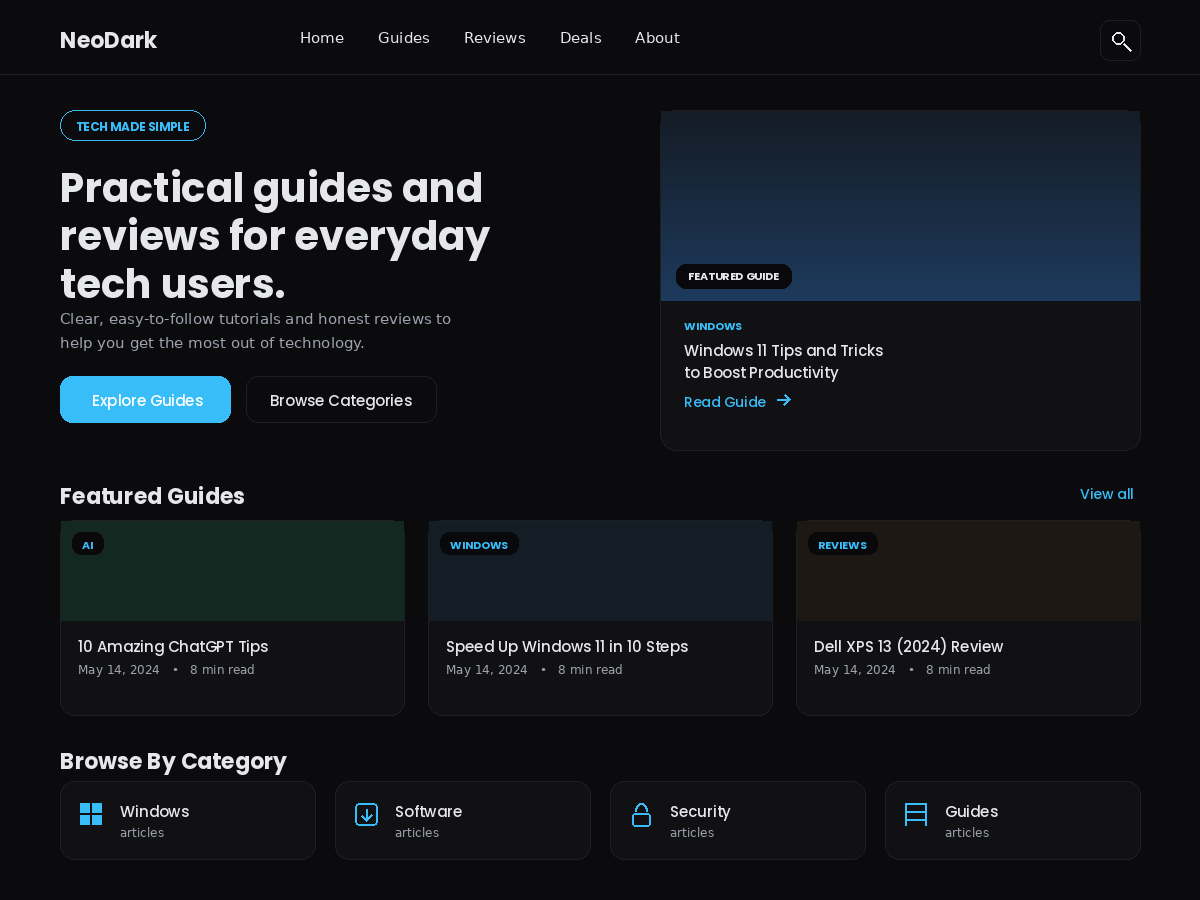
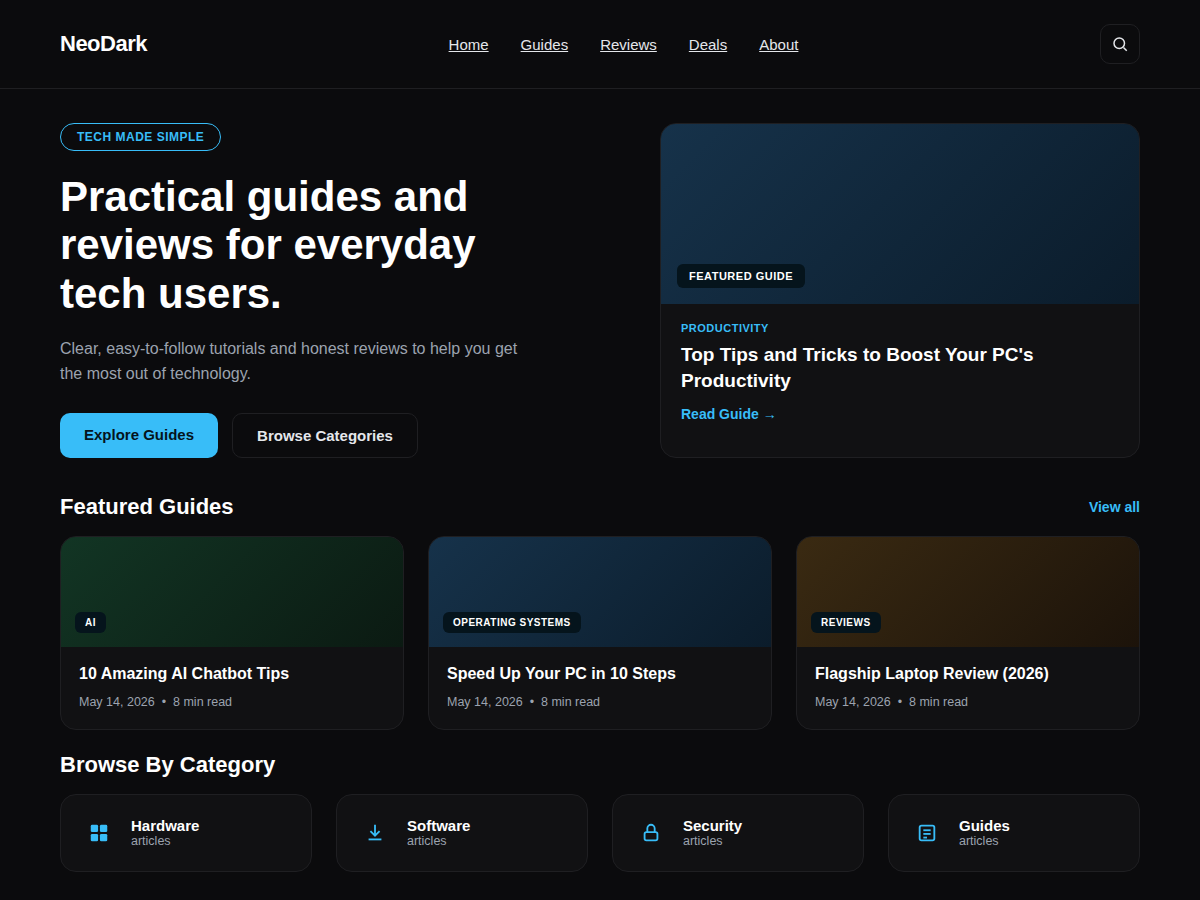
Sync repo to the released 1.1.8
The repo was still at 1.1.7 while WordPress.org has served 1.1.8 since 11 August, so the public source did not match the shipped theme.

Three files, taken verbatim from the 1.1.8 zip on WordPress.org:

- style.css - version header 1.1.7 -> 1.1.8
- readme.txt - version header, plus the 1.1.8 changelog entry
- screenshot.png - the replacement image

The screenshot matters more than the version numbers. The one in this repo is the original that WordPress.org rejected: its sample article titles read "10 Amazing ChatGPT Tips", "Speed Up Windows 11 in 10 Steps" and "Dell XPS 13 (2024) Review", with a "Windows" category label. Those are third-party trademarks and the Theme Review Team required generic placeholders instead. The rejected image is still what README.md embeds today.

Diffed the two trees to confirm nothing else changed between 1.1.7 and 1.1.8.

diff --git a/style.css b/style.css
@@ -4,7 +4,7 @@ Theme URI: https://techygeekshome.info/neodark/
 Description: A fast, lightweight dark-mode WordPress theme built for tech guides, tutorials and review sites. Built for TechyGeeksHome.
 Author: TechyGeeksHome
 Author URI: https://techygeekshome.info
-Version: 1.1.7
+Version: 1.1.8
 Requires at least: 6.4
 Tested up to: 7.0
 Requires PHP: 7.4
